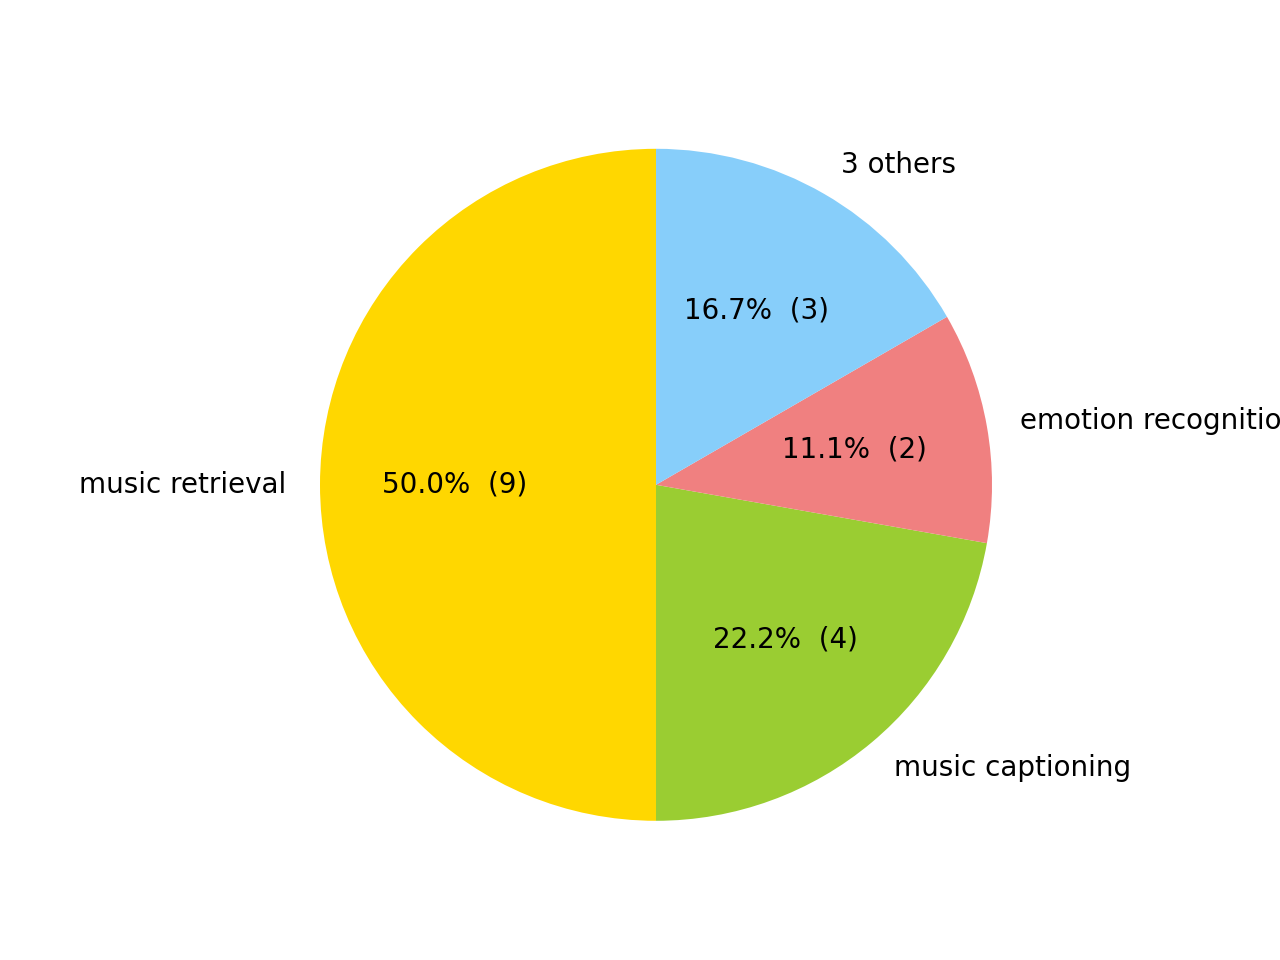
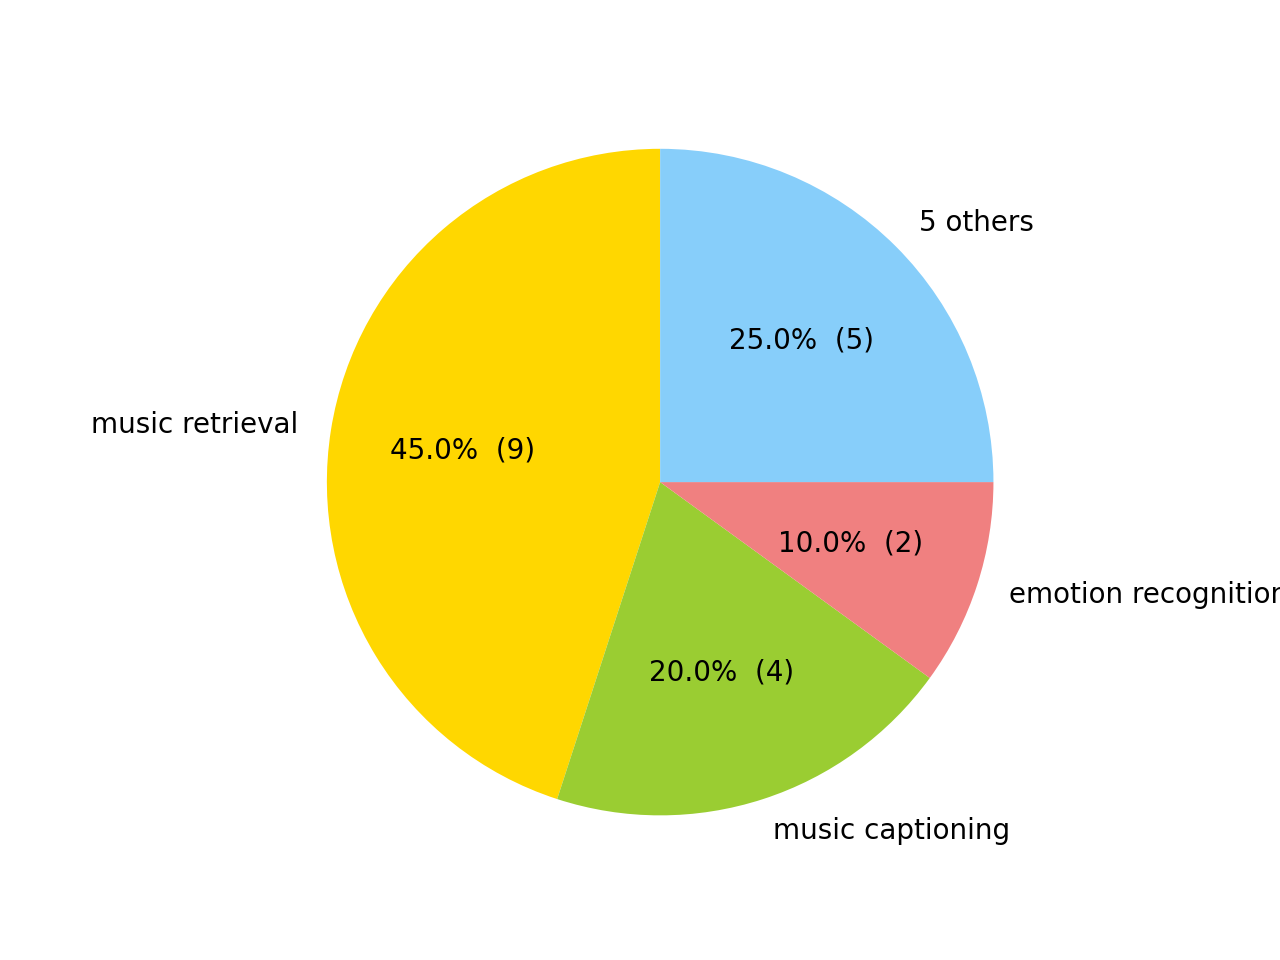
divide others category

diff --git a/multimodal_ml_music.py b/multimodal_ml_music.py
@@ -167,26 +167,64 @@ def generate_summary_table(bib):
     articles = generate_list_articles(bib)
 
     audio_text_articles = ""
+    audio_image_articles = ""
+    audio_video_articles = ""
+    audio_eeg_articles = ""
+    audio_user_articles = ""
     other_articles = ""
     for article in articles.splitlines():
         if article != "":
             if "Audio-Text" in article.split("|")[-2]:
                 audio_text_articles += (" | ").join(article.split("|")[:-2]) + "\n"
+            elif "Audio-Image" in article.split("|")[-2]:
+                audio_image_articles += (" | ").join(article.split("|")[:-2]) + "\n"
+            elif "Audio-Video" in article.split("|")[-2]:
+                audio_video_articles += (" | ").join(article.split("|")[:-2]) + "\n"
+            elif "Audio-EEG" in article.split("|")[-2]:
+                audio_eeg_articles += (" | ").join(article.split("|")[:-2]) + "\n"
+            elif "Audio-User" in article.split("|")[-2]:
+                audio_user_articles += (" | ").join(article.split("|")[:-2]) + "\n"
             else:
                 other_articles += (" | ").join(article.split("|")[:-2]) + "\n"
-
+    
     readme_fn = "README.md"
     readme = ""
     pasted_at_articles = False
+    pasted_ai_articles = False
+    pasted_av_articles = False
+    pasted_ae_articles = False
+    pasted_au_articles = False
     pasted_other_articles = False
     with open(readme_fn, "r", encoding="utf-8") as filep:
         for line in filep:
             # if "| " in line[:2] and line[2] != " ":
             if not pasted_at_articles and line == "#### Audio-Text\n":
-                    readme += "#### Audio-Text\n"
-                    readme += "| Year |  Paper Title | Code |\n|------|-------------------------------|------|\n"
-                    readme += audio_text_articles
-                    pasted_at_articles = True
+                readme += "#### Audio-Text\n"
+                readme += "| Year |  Paper Title | Code |\n|------|-------------------------------|------|\n"
+                readme += audio_text_articles
+                pasted_at_articles = True
+            elif not pasted_ai_articles and line == "#### Audio-Image\n":
+                readme += "#### Audio-Image\n"
+                readme += "| Year |  Paper Title | Code |\n|------|-------------------------------|------|\n"
+                readme += audio_image_articles
+                pasted_ai_articles = True
+            elif not pasted_av_articles and line == "#### Audio-Video\n":
+                readme += "#### Audio-Video\n"
+                readme += "| Year |  Paper Title | Code |\n|------|-------------------------------|------|\n"
+                readme += audio_video_articles
+                pasted_av_articles = True
+            elif not pasted_ae_articles and line == "#### Audio-EEG\n":
+                readme += "#### Audio-EEG\n"
+                readme += "| Year |  Paper Title | Code |\n|------|-------------------------------|------|\n"
+                readme += audio_eeg_articles
+                pasted_ae_articles = True
+            elif not pasted_au_articles and line == "#### Audio-User\n":
+                readme += "#### Audio-User\n"
+                readme += "| Year |  Paper Title | Code |\n|------|-------------------------------|------|\n"
+                readme += audio_user_articles
+                pasted_au_articles = True
+            else:
+                print("pass this line: ", line)
             if not pasted_other_articles and line == "#### Other\n":
                 readme += "#### Other\n"
                 readme += "| Year |  Paper Title | Code |\n|------|-------------------------------|------|\n"
@@ -212,6 +250,8 @@ def generate_summary_table(bib):
                 if (
                     "|  2" not in line 
                     and "#### Audio-Text" not in line 
+                    and "#### Audio-Video" not in line 
+                    and "#### Audio-Image" not in line 
                     and "#### Other" not in line 
                     and "| Year |  Paper Title | Code |" not in line 
                     and "|------|-------------------------------|------|" not in line

diff --git a/README.md b/README.md
@@ -37,9 +37,11 @@ Summary of papers on multimodal machine learning for music, including the review
  |  2022  |  [Learning music audio representations via weak language supervision](https://arxiv.org/abs/2112.04214)  |  [GitHub](https://github.com/ilaria-manco/mulap) 
  |  2022  |  [Mulan: A joint embedding of music audio and natural language](https://arxiv.org/abs/2208.12415)  |  
  |  2022  |  [RECAP: Retrieval Augmented Music Captioner](https://arxiv.org/abs/2212.10901v1)  |  
+ |  2022  |  [Data-Efficient Playlist Captioning With Musical and Linguistic Knowledge](https://preview.aclanthology.org/emnlp-22-ingestion/2022.emnlp-main.784)  |  [GitHub](https://github.com/deezer/playntell) 
  |  2022  |  [Clap: Learning audio concepts from natural language supervision](https://arxiv.org/abs/2206.04769)  |  [GitHub](https://github.com/microsoft/CLAP) 
  |  2022  |  [Toward Universal Text-to-Music Retrieval](https://arxiv.org/abs/2211.14558)  |  [GitHub](https://github.com/SeungHeonDoh/music-text-representation) 
  |  2021  |  [MusCaps: Generating Captions for Music Audio](https://arxiv.org/abs/2104.11984)  |  [GitHub](https://github.com/ilaria-manco/muscaps) 
+ |  2021  |  [Music Playlist Title Generation: A Machine-Translation Approach](https://arxiv.org/abs/2110.07354)  |  [GitHub](https://github.com/SeungHeonDoh/ply_title_gen) 
  |  2020  |  [MusicBERT - learning multi-modal representations for music and text](https://www.aclweb.org/anthology/2020.nlp4musa-1.13)  |  
  |  2020  |  [Music autotagging as captioning](https://www.aclweb.org/anthology/2020.nlp4musa-1.14)  |  
  |  2019  |  [Deep cross-modal correlation learning for audio and lyrics in music retrieval](https://arxiv.org/pdf/1711.08976.pdf)  |  
@@ -48,25 +50,41 @@ Summary of papers on multimodal machine learning for music, including the review
  |  2016  |  [Towards Music Captioning: Generating Music Playlist Descriptions](https://arxiv.org/pdf/1608.04868.pdf)  |  
  |  2008  |  [Multimodal Music Mood Classification using Audio and Lyrics](http://citeseerx.ist.psu.edu/viewdoc/download?doi=10.1.1.182.426&rep=rep1&type=pdf)  |  
 
+#### Audio-Video
+| Year |  Paper Title | Code |
+|------|-------------------------------|------|
+ |  2022  |  [It's Time for Artistic Correspondence in Music and Video](https://arxiv.org/abs/2206.07148)  |  
+ |  2019  |  [Audio-visual embedding for cross-modal music video retrieval through supervised deep CCA](https://arxiv.org/pdf/1908.03744.pdf)  |  
+ |  2019  |  [Query by Video: Cross-Modal Music Retrieval](www.gracenote.com)  |  
+ |  2018  |  [Cbvmr: content-based video-music retrieval using soft intra-modal structure constraint](https://dl.acm.org/doi/abs/10.1145/3206025.3206046)  |  [GitHub](https://github.com/csehong/VM-NET) 
+
+#### Audio-Image
+| Year |  Paper Title | Code |
+|------|-------------------------------|------|
+ |  2020  |  [Tr$\backslash$" aumerai: Dreaming music with stylegan](https://arxiv.org/abs/2102.04680)  |  [GitHub](https://github.com/jdasam/traeumerAI) 
+ |  2019  |  [Learning Affective Correspondence between Music and Image](https://arxiv.org/pdf/1904.00150.pdf)  |  
+ |  2018  |  [The Sound of Pixels](https://arxiv.org/pdf/1804.03160.pdf)  |  [GitHub](https://github.com/hangzhaomit/Sound-of-Pixels) 
+ |  2018  |  [Image generation associated with music data](https://openaccess.thecvf.com/content_cvpr_2018_workshops/papers/w49/Qiu_Image_Generation_Associated_CVPR_2018_paper.pdf)  |  
+
+#### Audio-User
+| Year |  Paper Title | Code |
+|------|-------------------------------|------|
+ |  2020  |  [Large-Scale Weakly-Supervised Content Embeddings for Music Recommendation and Tagging](https://ieeexplore.ieee.org/abstract/document/9053240)  |  
+ |  2017  |  [A deep multimodal approach for cold-start music recommendation](https://dl.acm.org/doi/pdf/10.1145/3125486.3125492)  |  [GitHub](https://github.com/sergiooramas/tartarus) 
+#### Audio-User
+
 #### Other
 | Year |  Paper Title | Code |
 |------|-------------------------------|------|
  |  2021  |  [Multimodal metric learning for tag-based music retrieval](https://arxiv.org/pdf/2010.16030.pdf)  |  [GitHub](https://github.com/minzwon/tag-based-music-retrieval) 
- |  2020  |  [Large-Scale Weakly-Supervised Content Embeddings for Music Recommendation and Tagging](https://ieeexplore.ieee.org/abstract/document/9053240)  |  
  |  2020  |  [Learning Contextual Tag Embeddings for Cross-Modal Alignment of Audio and Tags](https://arxiv.org/pdf/2010.14171.pdf)  |  [GitHub](https://github.com/xavierfav/ae-w2v-attention) 
- |  2019  |  [Audio-visual embedding for cross-modal music video retrieval through supervised deep CCA](https://arxiv.org/pdf/1908.03744.pdf)  |  
+ |  2020  |  [Musical word embedding: Bridging the gap between listening contexts and music](https://arxiv.org/abs/2008.01190)  |  
  |  2019  |  [Query-by-Blending: a Music Exploration System Blending Latent Vector Representations of Lyric Word, Song Audio, and Artist](https://archives.ismir.net/ismir2019/paper/000015.pdf)  |  
- |  2019  |  [Learning Affective Correspondence between Music and Image](https://arxiv.org/pdf/1904.00150.pdf)  |  
  |  2019  |  [Multimodal music information processing and retrieval: Survey and future challenges](https://arxiv.org/pdf/1902.05347.pdf)  |  
  |  2019  |  [Cross-Modal Music Retrieval and Applications: An Overview of Key Methodologies](https://arxiv.org/pdf/1902.04397.pdf)  |  
  |  2019  |  [Creating a Multitrack Classical Music Performance Dataset for Multimodal Music Analysis: Challenges, Insights, and Applications](https://arxiv.org/pdf/1612.08727.pdf)  |  
- |  2019  |  [Query by Video: Cross-Modal Music Retrieval](www.gracenote.com)  |  
- |  2018  |  [The Sound of Pixels](https://arxiv.org/pdf/1804.03160.pdf)  |  [GitHub](https://github.com/hangzhaomit/Sound-of-Pixels) 
- |  2018  |  [Image generation associated with music data](https://openaccess.thecvf.com/content_cvpr_2018_workshops/papers/w49/Qiu_Image_Generation_Associated_CVPR_2018_paper.pdf)  |  
  |  2018  |  [Multimodal Deep Learning for Music Genre Classification](https://transactions.ismir.net/articles/10.5334/tismir.10/)  |  [GitHub](https://github.com/fvancesco/music_resnet_classification) 
  |  2018  |  [JTAV: Jointly Learning Social Media Content Representation by Fusing Textual, Acoustic, and Visual Features](http://arxiv.org/abs/1806.01483)  |  [GitHub](https://github.com/mengshor/JTAV) 
- |  2018  |  [Cbvmr: content-based video-music retrieval using soft intra-modal structure constraint](https://dl.acm.org/doi/abs/10.1145/3206025.3206046)  |  [GitHub](https://github.com/csehong/VM-NET) 
- |  2017  |  [A deep multimodal approach for cold-start music recommendation](https://dl.acm.org/doi/pdf/10.1145/3125486.3125492)  |  [GitHub](https://github.com/sergiooramas/tartarus) 
  |  2017  |  [Learning neural audio embeddings for grounding semantics in auditory perception](https://www.jair.org/index.php/jair/article/view/11101/26292)  |  
  |  2017  |  [Music emotion recognition via end-To-end multimodal neural networks](http://ceur-ws.org/Vol-1905/recsys2017_poster18.pdf)  |  
  |  2013  |  [Cross-modal Sound Mapping Using Deep Learning](https://www.ohadf.com/papers/FriedFiebrink_NIME2013.pdf)  |  
@@ -93,14 +111,14 @@ Summary of papers on multimodal machine learning for music, including the review
 
 ## Statistics & Visualisations
 
-- 39 papers referenced. See the details in [multimodal_ml_music.bib](multimodal_ml_music.bib).
+- 44 papers referenced. See the details in [multimodal_ml_music.bib](multimodal_ml_music.bib).
 Number of articles per year:
 ![Number of articles per year](fig/articles_per_year.png)
-- If you are applying multimodal ML to music, there are [133 other researchers](authors.md) in your field.
-- 9 tasks investigated. See the list of [tasks](tasks.md).
+- If you are applying multimodal ML to music, there are [144 other researchers](authors.md) in your field.
+- 12 tasks investigated. See the list of [tasks](tasks.md).
 Tasks pie chart:
 ![Tasks pie chart](fig/pie_chart_task.png)
-- Only 12 articles (30%) provide their source code (but this may be partly due to missing data). The [Deep Learning for Music](https://github.com/ybayle/awesome-deep-learning-music) list created
+- Only 15 articles (34%) provide their source code.
  by [Yann Bayle](http://yannbayle.fr/english/index.php) has a very useful list of [resources on reproducibility for MIR and ML](https://github.com/ybayle/awesome-deep-learning-music/blob/master/reproducibility.md).
 
 

diff --git a/publication_type.md b/publication_type.md
@@ -23,6 +23,7 @@
 - ICASSP 2022-2022 IEEE International Conference on Acoustics, Speech and Signal Processing (ICASSP)
 - ICASSP, IEEE International Conference on Acoustics, Speech and Signal Processing - Proceedings
 - IEEE Conference on Computer Vision and Pattern Recognition Workshops
+- Machine Learning for Media Discovery Workshop, International Conference on Machine Learning (ICML)
 - NIME
 - Proceedings - 2018 IEEE International Symposium on Multimedia, ISM 2018
 - Proceedings - 2019 International Workshop on Multilayer Music Representation and Processing, MMRP 2019
@@ -32,9 +33,13 @@
 - Proceedings of the 1st Workshop on NLP for Music and Audio (NLP4MusA)
 - Proceedings of the 1st international ACM workshop on Music information retrieval with user-centered and multimodal strategies
 - Proceedings of the 2018 ACM on international conference on multimedia retrieval
+- Proceedings of the 2022 Conference on Empirical Methods in Natural Language Processing (EMNLP)
 - Proceedings of the 20th International Society for Music Information Retrieval Conference
 - Proceedings of the 23rd International Society for Music Information Retrieval Conference (ISMIR)
 - Proceedings of the 27th International Conference on Computational Linguistics
 - Proceedings of the 2nd Workshop on Deep Learning for Recommender Systems
+- Proceedings of the 2nd Workshop on NLP for Music and Spoken Audio (NLP4MuSA)
+- Proceedings of the IEEE/CVF Conference on Computer Vision and Pattern Recognition (CVPR)
 - Second Workshop on Interactive Learning for Natural Language Processing at NeurIPS 2022
 - The European Conference on Computer Vision (ECCV)
+- Workshop on Machine Learning for Creativity and Design, Neural Information Processing Systems (NeurIPS)

diff --git a/authors.md b/authors.md
@@ -21,6 +21,7 @@
 - Dinesh, Karthik
 - Dixon, Simon
 - Doh, SeungHeon
+- Doh, Seungheon
 - Dorfer, Matthias
 - Drossos, Konstantinos
 - Duan, Zhiyao
@@ -28,6 +29,7 @@
 - Elizalde, Benjamin
 - Ellis, Daniel P. W.
 - Ellis, Daniel PW
+- Epure, Elena
 - Espinosa-Anke, Luis
 - Favory, Xavier
 - Fazekas, Gyorgy
@@ -37,6 +39,7 @@
 - Fiebrink, Rebecca
 - Filip Radlinski
 - Fried, Ohad
+- Gabbolini, Giovanni
 - Gan, Chuang
 - Ganti, Ravi
 - Goto, Masataka
@@ -56,6 +59,7 @@
 - Ismail, Mahmoud Al
 - Jansen, Aren
 - Jeon, Byungsoo
+- Jeong, Dasaem
 - Jiang, Junyan
 - Kataoka, Hirokatsu
 - Kiela, Douwe
@@ -63,11 +67,14 @@
 - Kim, Chanju
 - Kim, Dongwon
 - Krisztian Balog
+- Kwon, Taegyun
 - Lanckriet, Gert
 - Lartillot, Olivier
 - Laurier, Cyril
 - Lawlor, Aonghus
+- Lee, Jongpil
 - Lee, Joonseok
+- Lee, Junwon
 - Li, Bochen
 - Li, Judith Yue
 - Liang, Hongru
@@ -90,6 +97,7 @@
 - Orio, Nicola
 - Oyama, Keizo
 - Park, Jangyeon
+- Park, Tae Hong
 - Piccoli, Francesco
 - Qiu, Yue
 - Quinton, Elio
@@ -99,7 +107,9 @@
 - Rossetto, Federico
 - Rouditchenko, Andrew
 - Royo-Letelier, Jimena
+- Russell, Bryan
 - Saggion, Horacio
+- Salamon, Justin
 - Sandler, Mark
 - Saurous, Rif A.
 - Schedl, Markus
@@ -110,6 +120,7 @@
 - Song, Xuchen
 - Sordo, Mohamed
 - Sun, Zhe
+- Sur{\'\i}s, D{\'\i}dac
 - Tang, Suhua
 - Torralba, Antonio
 - Turnbull, Douglas R.

diff --git a/tasks.md b/tasks.md
@@ -8,4 +8,7 @@
 - music recommendation
 - music retrieval
 - music video retrieval
+- music-to-image synthesis
+- music-to-video retrieval
+- playlist captioning
 - source separation

diff --git a/datasets.md b/datasets.md
@@ -1,1 +1,2 @@
 # List of datasets
+
